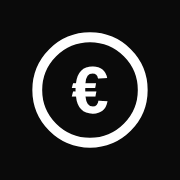
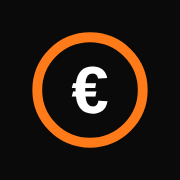
Rebrand as Nomad Expenses by NomadWealth
Geist fonts, the NomadWealth orange on the main button, the current leg
and the progress bar, a family mark on the sign in, walkthrough, share
and Trip screens and a redrawn icon.

Claude-Session: https://claude.ai/code/session_01J81s9Dge4YZcx3irpEywQx

Changed region(s): [[0.1667, 0.1667, 0.8333, 0.8333]]

diff --git a/app/(app)/trip/page.tsx b/app/(app)/trip/page.tsx
@@ -1,6 +1,7 @@
 import { desc, sql } from "drizzle-orm";
 import { Download, GripVertical, Link2, LogOut, Plus } from "lucide-react";
 import { createShareLink, logout, reorderLegs } from "@/app/actions";
+import { FamilyMark } from "@/components/family-mark";
 import { LegForm } from "@/components/leg-form";
 import { ShareLinkRow } from "@/components/share-link-row";
 import { SortableList } from "@/components/sortable-list";
@@ -8,6 +9,7 @@ import { Hero, TripCard } from "@/components/ui";
 import { db } from "@/lib/db";
 import { expenses, shareLinks } from "@/lib/db/schema";
 import { daysBetween, formatEuro, formatShortDate } from "@/lib/format";
+import { DEMO_MODE } from "@/lib/demo";
 import { COUNTRY_OPTIONS, CURRENCY_OPTIONS, currencyName } from "@/lib/places";
 import { getLegs, serverToday } from "@/lib/queries";
 
@@ -93,7 +95,7 @@ export default async function TripPage() {
                   <span
                     aria-hidden
                     className={`flex size-11 shrink-0 items-center justify-center rounded-xl border text-xl ${
-                      isCurrent ? "border-accent" : "border-line"
+                      isCurrent ? "border-brand" : "border-line"
                     }`}
                   >
                     {leg.flag}
@@ -102,7 +104,7 @@ export default async function TripPage() {
                     <span className="flex items-center gap-2 text-sm font-semibold">
                       {leg.country}
                       {isCurrent && (
-                        <span className="rounded-full bg-accent px-2 py-0.5 text-[10px] text-accent-ink">Now</span>
+                        <span className="rounded-full bg-brand px-2 py-0.5 text-[10px] text-brand-ink">Now</span>
                       )}
                     </span>
                     <span className="block truncate text-xs text-muted">{leg.cities}</span>
@@ -192,12 +194,15 @@ export default async function TripPage() {
           <Download size={18} aria-hidden />
           Export all expenses as a spreadsheet
         </a>
-        <form action={logout}>
-          <button className="flex min-h-14 w-full items-center justify-center gap-2 rounded-full font-medium text-muted">
-            <LogOut size={18} aria-hidden />
-            Sign out
-          </button>
-        </form>
+        {!DEMO_MODE && (
+          <form action={logout}>
+            <button className="flex min-h-14 w-full items-center justify-center gap-2 rounded-full font-medium text-muted">
+              <LogOut size={18} aria-hidden />
+              Sign out
+            </button>
+          </form>
+        )}
+        <FamilyMark text="Part of NomadWealth" link className="min-h-11 justify-center text-muted" />
       </div>
     </div>
   );

diff --git a/app/setup/page.tsx b/app/setup/page.tsx
@@ -2,8 +2,10 @@ import type { Metadata } from "next";
 import Link from "next/link";
 import { redirect } from "next/navigation";
 import { finishSetup, loadSampleTrip, saveSetupName } from "@/app/actions";
+import { FamilyMark } from "@/components/family-mark";
 import { LegForm } from "@/components/leg-form";
 import { TripCard } from "@/components/ui";
+import { DEMO_MODE } from "@/lib/demo";
 import { COUNTRY_OPTIONS, CURRENCY_OPTIONS } from "@/lib/places";
 import { getLegs, getSettings, serverToday } from "@/lib/queries";
 
@@ -12,14 +14,14 @@ export const metadata: Metadata = { title: "Set up Nomad Expenses" };
 const STEPS = ["name", "trip", "done"] as const;
 type Step = (typeof STEPS)[number];
 
-const primaryButton = "flex min-h-14 w-full items-center justify-center rounded-full bg-white font-semibold text-[#0a0a0a]";
+const primaryButton = "flex min-h-14 w-full items-center justify-center rounded-full bg-brand font-semibold text-brand-ink";
 const skipLink = "flex min-h-11 items-center justify-center text-sm text-hero-muted underline underline-offset-4";
 
 /** The first run walkthrough: your name, your first trip leg, then into the app. Every step can be skipped. */
 export default async function SetupPage({ searchParams }: PageProps<"/setup">) {
   const params = await searchParams;
   const [settings, legs] = await Promise.all([getSettings(), getLegs()]);
-  if (settings?.setupDoneAt) redirect("/");
+  if (DEMO_MODE || settings?.setupDoneAt) redirect("/");
 
   const step: Step = STEPS.find((s) => s === params.step) ?? "name";
   const position = STEPS.indexOf(step);
@@ -77,6 +79,7 @@ export default async function SetupPage({ searchParams }: PageProps<"/setup">) {
                 Skip this step
               </Link>
             </form>
+            <FamilyMark className="justify-center text-hero-muted" />
           </div>
         )}
 

diff --git a/components/dashboard-view.tsx b/components/dashboard-view.tsx
@@ -255,7 +255,7 @@ export async function DashboardView({
             aria-valuemax={scopeDays}
             aria-valuenow={scopeElapsed}
           >
-            <div className="h-full rounded-full bg-accent" style={{ width: `${(scopeElapsed / scopeDays) * 100}%` }} />
+            <div className="h-full rounded-full bg-brand" style={{ width: `${(scopeElapsed / scopeDays) * 100}%` }} />
           </div>
         )}
         <p className="tabular mt-2 text-xs text-muted">
@@ -338,17 +338,17 @@ export async function DashboardView({
                 {scopeLegs
                   .filter((l) => l.total > 0 || l.elapsed > 0)
                   .map((l) => (
-                    <li key={l.id} className="tabular flex items-center gap-3 py-3 first:pt-0 last:pb-0">
+                    <li key={l.id} className="flex items-center gap-3 py-3 first:pt-0 last:pb-0">
                       <span className="min-w-0 flex-1">
                         <span className="block truncate text-sm">
                           {l.flag} {l.cities}
                         </span>
-                        <span className="block text-xs text-muted">
+                        <span className="tabular block text-xs text-muted">
                           {formatShortDate(l.startDate)} to {formatShortDate(l.endDate)}
                           {l.elapsed > 0 && ` · ${formatEuro(l.total / l.elapsed)} per day`}
                         </span>
                       </span>
-                      <span className="text-sm font-semibold">{formatEuro(l.total)}</span>
+                      <span className="tabular text-sm font-semibold">{formatEuro(l.total)}</span>
                     </li>
                   ))}
               </ul>

diff --git a/app/layout.tsx b/app/layout.tsx
@@ -1,11 +1,18 @@
 import type { Metadata, Viewport } from "next";
+import { GeistMono } from "geist/font/mono";
+import { GeistSans } from "geist/font/sans";
+import { FULL_NAME } from "@/lib/brand";
+import { DEMO_MODE } from "@/lib/demo";
 import "./globals.css";
 
 export const metadata: Metadata = {
-  title: "Nomad Expenses",
-  description: "Track travel spending across countries and currencies.",
+  title: DEMO_MODE ? `${FULL_NAME}: live demo` : FULL_NAME,
+  description: DEMO_MODE
+    ? "Tap through a sample trip. Nomad Expenses tracks travel spending across countries and currencies on your own Vercel and Neon."
+    : "Track travel spending across countries and currencies.",
   appleWebApp: { capable: true, title: "Expenses", statusBarStyle: "black-translucent" },
-  robots: { index: false, follow: false },
+  // A personal install stays out of search engines. Only the public demo is listed.
+  robots: { index: DEMO_MODE, follow: DEMO_MODE },
 };
 
 export const viewport: Viewport = {
@@ -20,7 +27,7 @@ export const viewport: Viewport = {
 
 export default function RootLayout({ children }: LayoutProps<"/">) {
   return (
-    <html lang="en" className="h-full antialiased">
+    <html lang="en" className={`${GeistSans.variable} ${GeistMono.variable} h-full antialiased`}>
       <body className="min-h-full">{children}</body>
     </html>
   );

diff --git a/app/globals.css b/app/globals.css
@@ -14,6 +14,9 @@
   --field: #f1f1ef;
   --accent: #0a0a0a;
   --accent-ink: #ffffff;
+  /* The NomadWealth orange. Only the primary button, the current trip leg and the progress bar use it. */
+  --brand: #ff7a18;
+  --brand-ink: #0f1115;
   --track: #ececea;
   --danger: #c0312f;
   --hero: #0a0a0a;
@@ -66,6 +69,8 @@
   --color-field: var(--field);
   --color-accent: var(--accent);
   --color-accent-ink: var(--accent-ink);
+  --color-brand: var(--brand);
+  --color-brand-ink: var(--brand-ink);
   --color-track: var(--track);
   --color-danger: var(--danger);
   --color-hero: var(--hero);
@@ -78,8 +83,8 @@
 body {
   background: var(--bg);
   color: var(--ink);
-  font-family: -apple-system, BlinkMacSystemFont, "SF Pro Text", "Inter", "Segoe UI", Roboto,
-    Helvetica, Arial, sans-serif;
+  font-family: var(--font-geist-sans), -apple-system, BlinkMacSystemFont, "Segoe UI", Roboto, Helvetica,
+    Arial, sans-serif;
   -webkit-tap-highlight-color: transparent;
 }
 
@@ -202,6 +207,9 @@ input:focus-visible {
   display: none;
 }
 
+/* Every amount and date is set in Geist Mono, as in the NomadWealth cockpit. */
 .tabular {
+  font-family: var(--font-geist-mono), ui-monospace, SFMono-Regular, Menlo, monospace;
   font-variant-numeric: tabular-nums;
+  letter-spacing: -0.02em;
 }

diff --git a/app/(app)/page.tsx b/app/(app)/page.tsx
@@ -26,11 +26,11 @@ export default async function AddPage({ searchParams }: PageProps<"/">) {
       <ExpenseForm key={saved?.id ?? "new"} legs={legs} serverToday={serverToday()} title="Add expense" />
 
       {saved && (
-        <div role="status" className="card tabular flex items-center justify-between gap-3 px-5 py-3 text-sm">
+        <div role="status" className="card flex items-center justify-between gap-3 px-5 py-3 text-sm">
           <p>
             {repeated ? "Added again" : "Saved"} {categoryOf(saved.category).label.toLowerCase()}:{" "}
-            <strong>{formatAmount(Number(saved.amount), saved.currency)}</strong>
-            {saved.currency !== "EUR" && ` (${formatEuro(Number(saved.amountEur))})`}
+            <strong className="tabular">{formatAmount(Number(saved.amount), saved.currency)}</strong>
+            {saved.currency !== "EUR" && <span className="tabular"> ({formatEuro(Number(saved.amountEur))})</span>}
           </p>
           {repeated && (
             <form action={deleteExpense}>

diff --git a/components/family-mark.tsx b/components/family-mark.tsx
@@ -1,0 +1,31 @@
+import { FAMILY_NAME, FAMILY_URL } from "@/lib/brand";
+
+/**
+ * The NomadWealth mark with a short line of text. As a link it is a plain
+ * link: no tracking and no referrer, so the other site learns nothing.
+ */
+export function FamilyMark({
+  text = `by ${FAMILY_NAME}`,
+  link = false,
+  className = "",
+}: {
+  text?: string;
+  link?: boolean;
+  className?: string;
+}) {
+  const content = (
+    <>
+      {/* eslint-disable-next-line @next/next/no-img-element */}
+      <img src="/nomadwealth-mark.png" alt="" width={16} height={16} className="size-4 shrink-0" />
+      <span>{text}</span>
+    </>
+  );
+  const classes = `inline-flex items-center gap-1.5 text-xs font-medium ${className}`;
+  return link ? (
+    <a href={FAMILY_URL} target="_blank" rel="noopener noreferrer" referrerPolicy="no-referrer" className={classes}>
+      {content}
+    </a>
+  ) : (
+    <span className={classes}>{content}</span>
+  );
+}

diff --git a/app/share/[token]/layout.tsx b/app/share/[token]/layout.tsx
@@ -1,7 +1,12 @@
+import { FamilyMark } from "@/components/family-mark";
+
 export default function ShareLayout({ children }: { children: React.ReactNode }) {
   return (
     <main className="mx-auto w-full max-w-md px-4 pb-[calc(env(safe-area-inset-bottom)+40px)]">
       {children}
+      <footer className="mt-8 flex justify-center">
+        <FamilyMark text="Made with Nomad Expenses by NomadWealth" link className="min-h-11 text-muted" />
+      </footer>
     </main>
   );
 }

diff --git a/app/login/page.tsx b/app/login/page.tsx
@@ -1,3 +1,4 @@
+import { FamilyMark } from "@/components/family-mark";
 import { LoginForm } from "@/components/login-form";
 import { TripCard } from "@/components/ui";
 
@@ -17,6 +18,7 @@ export default function LoginPage() {
           <p className="mt-1 text-hero-muted">Enter your password to continue.</p>
         </div>
         <LoginForm />
+        <FamilyMark className="justify-center text-hero-muted" />
       </div>
     </main>
   );

diff --git a/components/expense-form.tsx b/components/expense-form.tsx
@@ -289,7 +289,7 @@ export function ExpenseForm({
       <button
         type="submit"
         disabled={pending}
-        className="min-h-14 rounded-full bg-accent text-base font-semibold text-accent-ink disabled:opacity-60"
+        className="min-h-14 rounded-full bg-brand text-base font-semibold text-brand-ink disabled:opacity-60"
       >
         {pending ? "Saving" : expense ? "Save changes" : "Add expense"}
       </button>

diff --git a/components/leg-form.tsx b/components/leg-form.tsx
@@ -135,7 +135,7 @@ export function LegForm({
         <button
           type="submit"
           disabled={pending}
-          className="min-h-12 rounded-full bg-accent font-semibold text-accent-ink disabled:opacity-60"
+          className="min-h-12 rounded-full bg-brand font-semibold text-brand-ink disabled:opacity-60"
         >
           {pending ? "Saving" : leg ? "Save leg" : "Add leg"}
         </button>

diff --git a/components/login-form.tsx b/components/login-form.tsx
@@ -26,7 +26,7 @@ export function LoginForm() {
       <button
         type="submit"
         disabled={pending}
-        className="min-h-14 rounded-full bg-white font-semibold text-[#0a0a0a] disabled:opacity-60"
+        className="min-h-14 rounded-full bg-brand font-semibold text-brand-ink disabled:opacity-60"
       >
         {pending ? "Signing in" : "Sign in"}
       </button>
